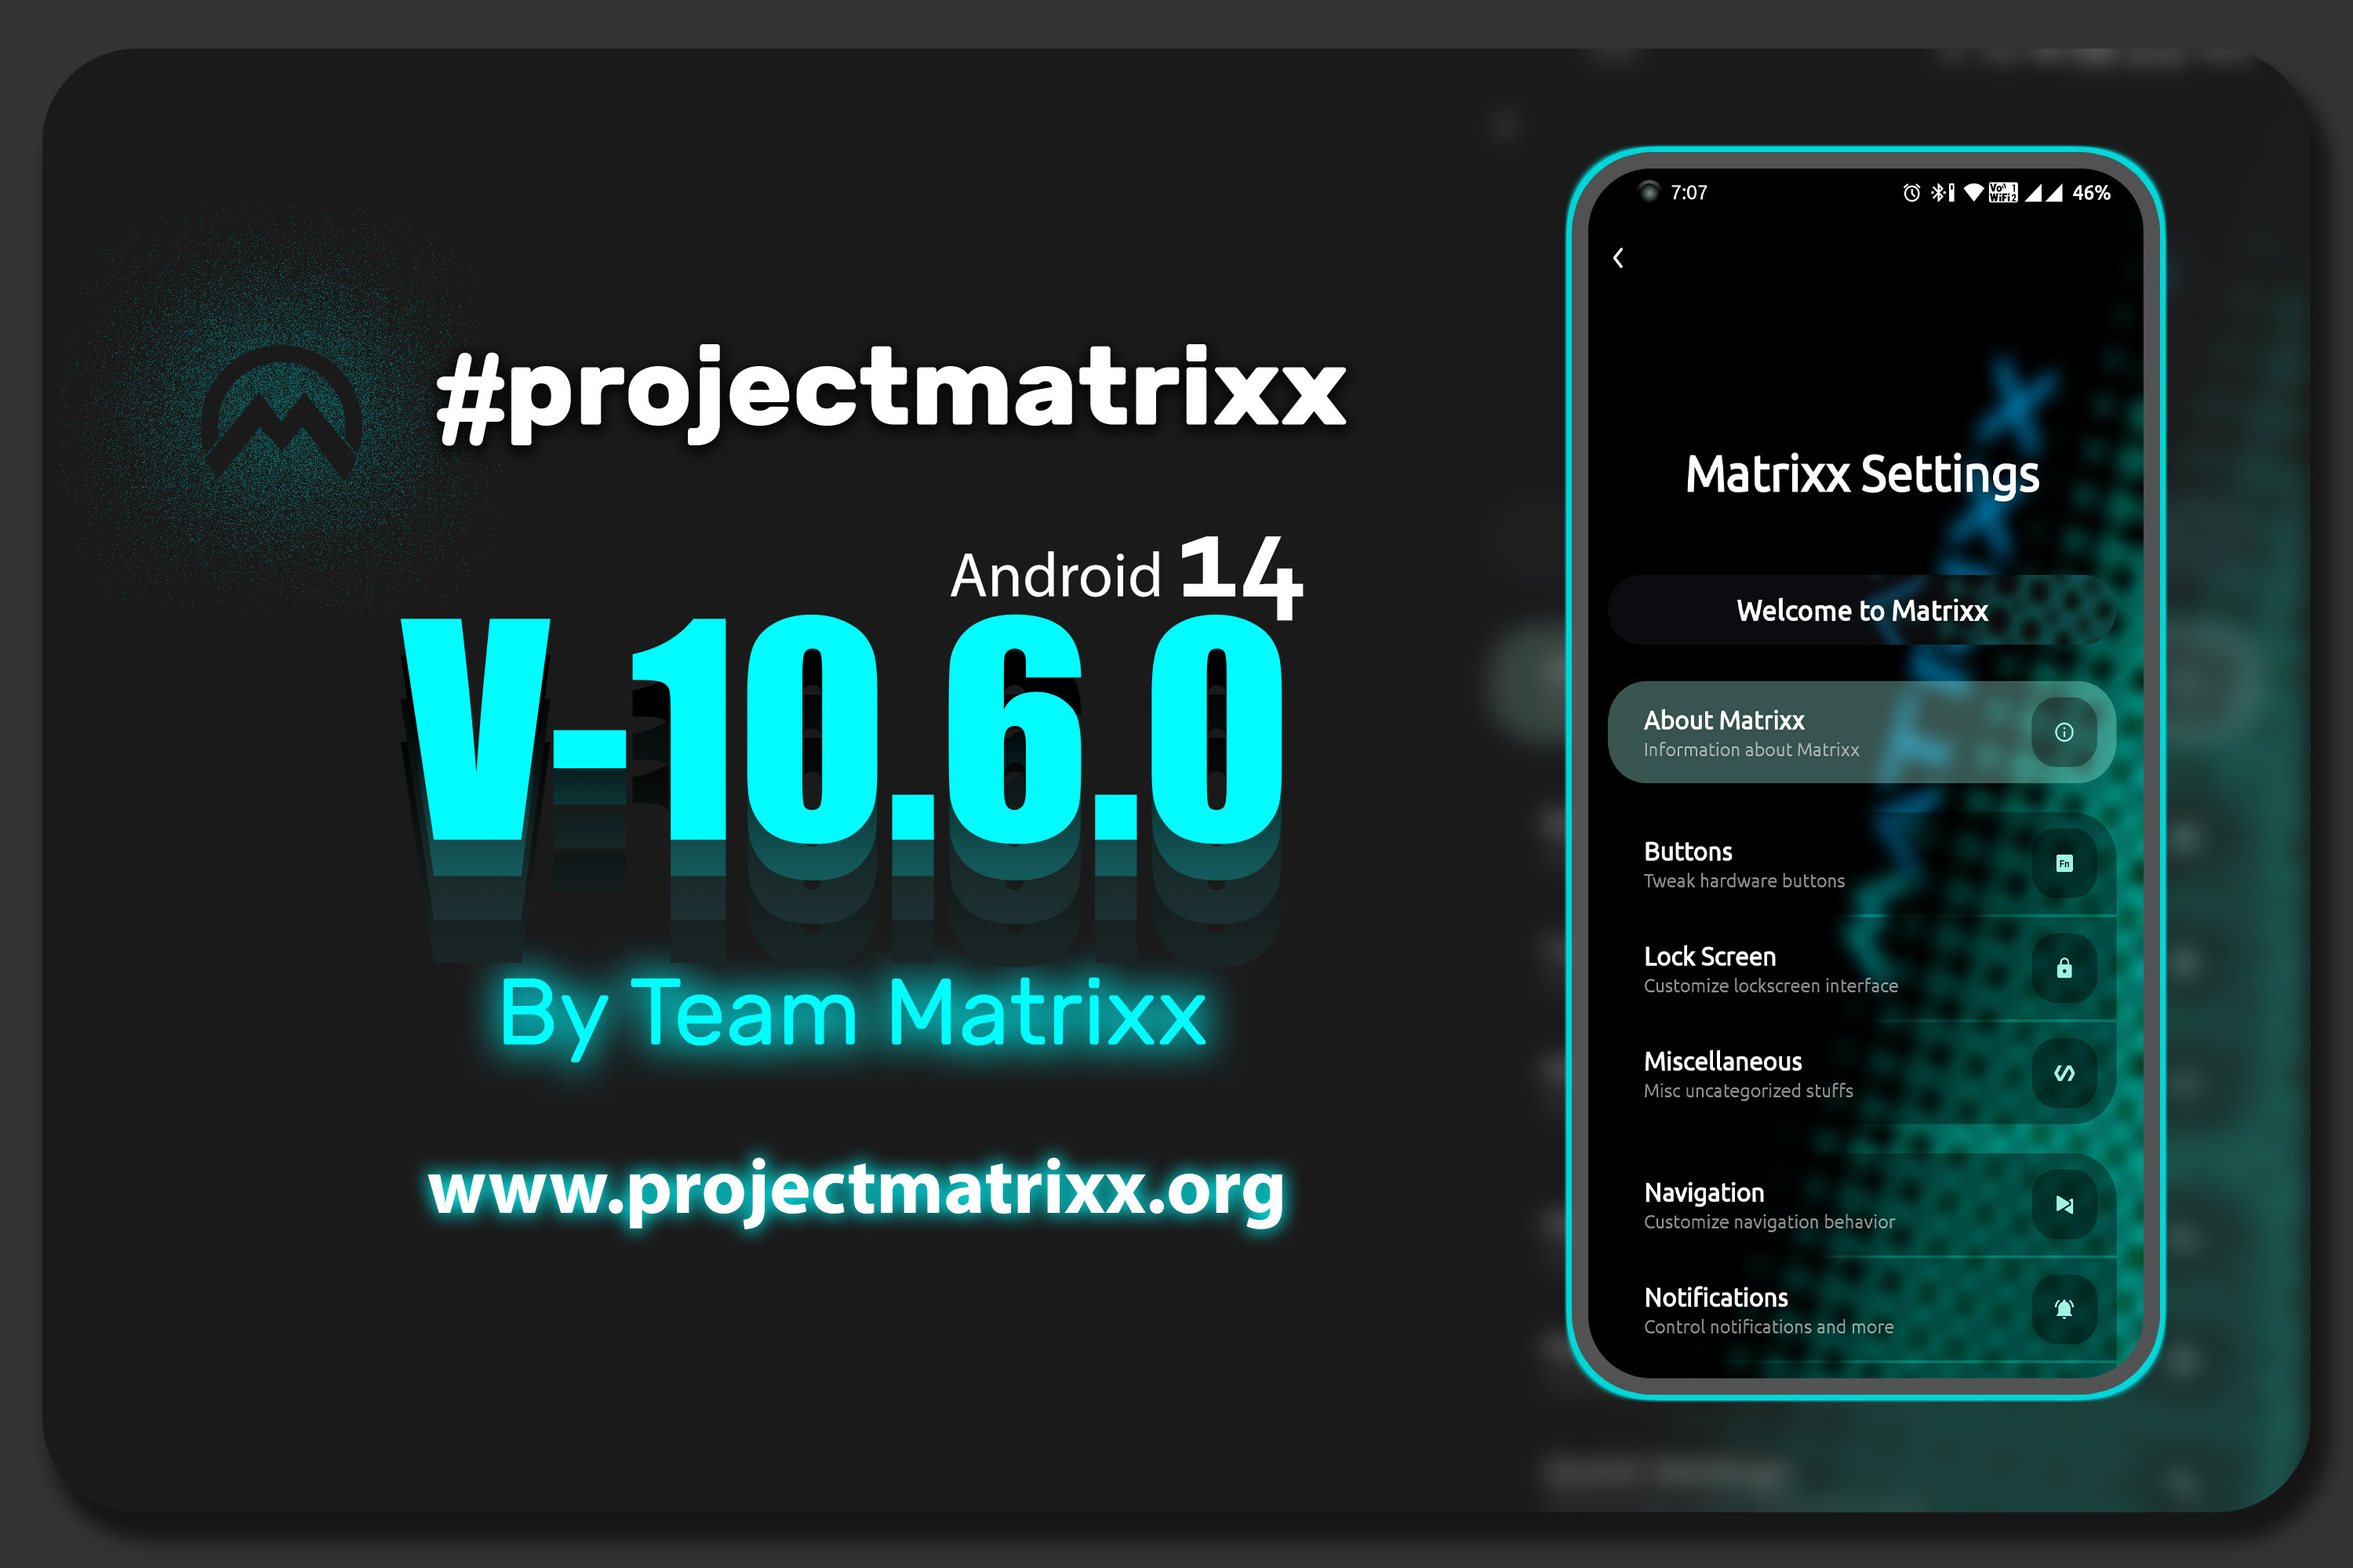
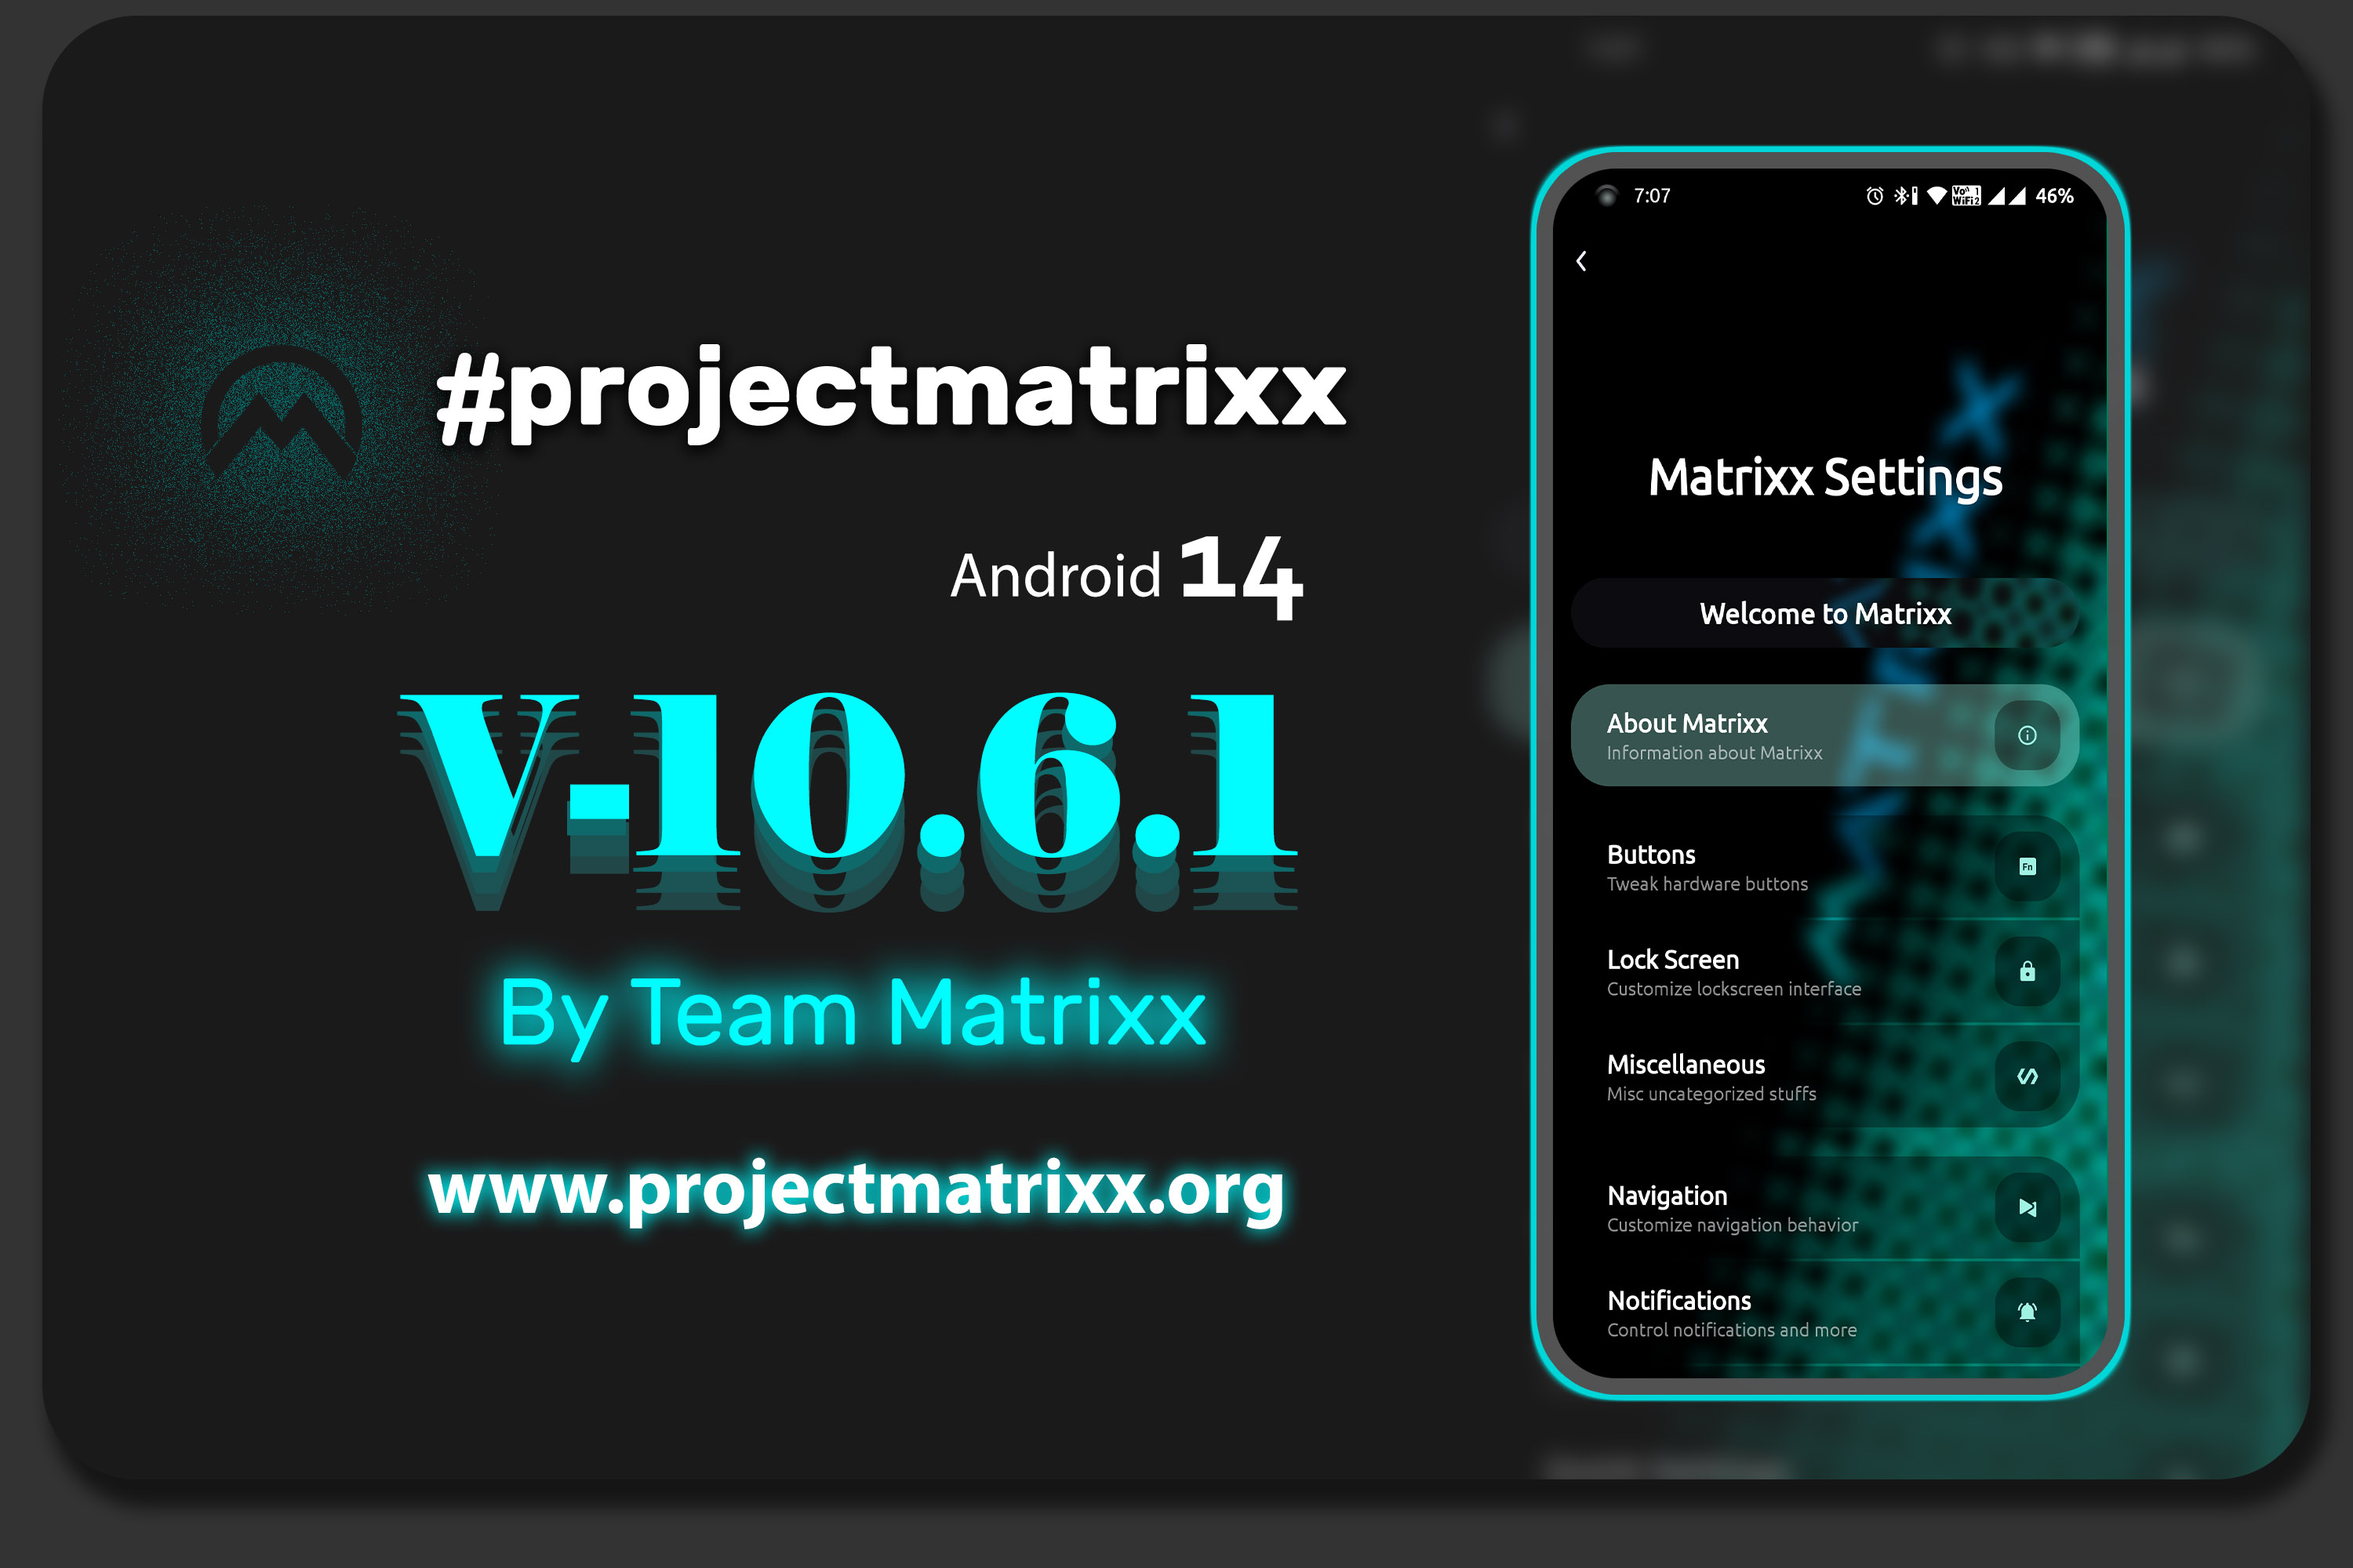
matrixx: 10.6.1 update

diff --git a/changelogs/source_changelog.md b/changelogs/source_changelog.md
@@ -1,3 +1,21 @@
+# Matrixx v-10.6.1 Changelog
+
+- Update release version to 10.6.1
+- Added back removed options after qpr3:
+	- Lockscreen timeout: Make timeout configurable
+	- Allow setting custom symbol near text on charging
+	- Power/reboot menu transparency
+	- Added Rotate animation to Power Menu
+	- Toast Animations
+	- Long swipe gesture implementation
+	- Max Lockscreen Notification count
+	- Max Notif Panel Notification count
+	- Custom(User Selected) UDFPS Icon
+- Added back navbar layout
+- Fixed less boring headsup causing systemui force close
+- Moved Gesture navigation to Matrixx Settings
+- Fixed battery percent view not disappearing after disconnecting charger
+
 # Matrixx v-10.6.0 Changelog
 
 - Bump up Matrixx version to 10.6.0
